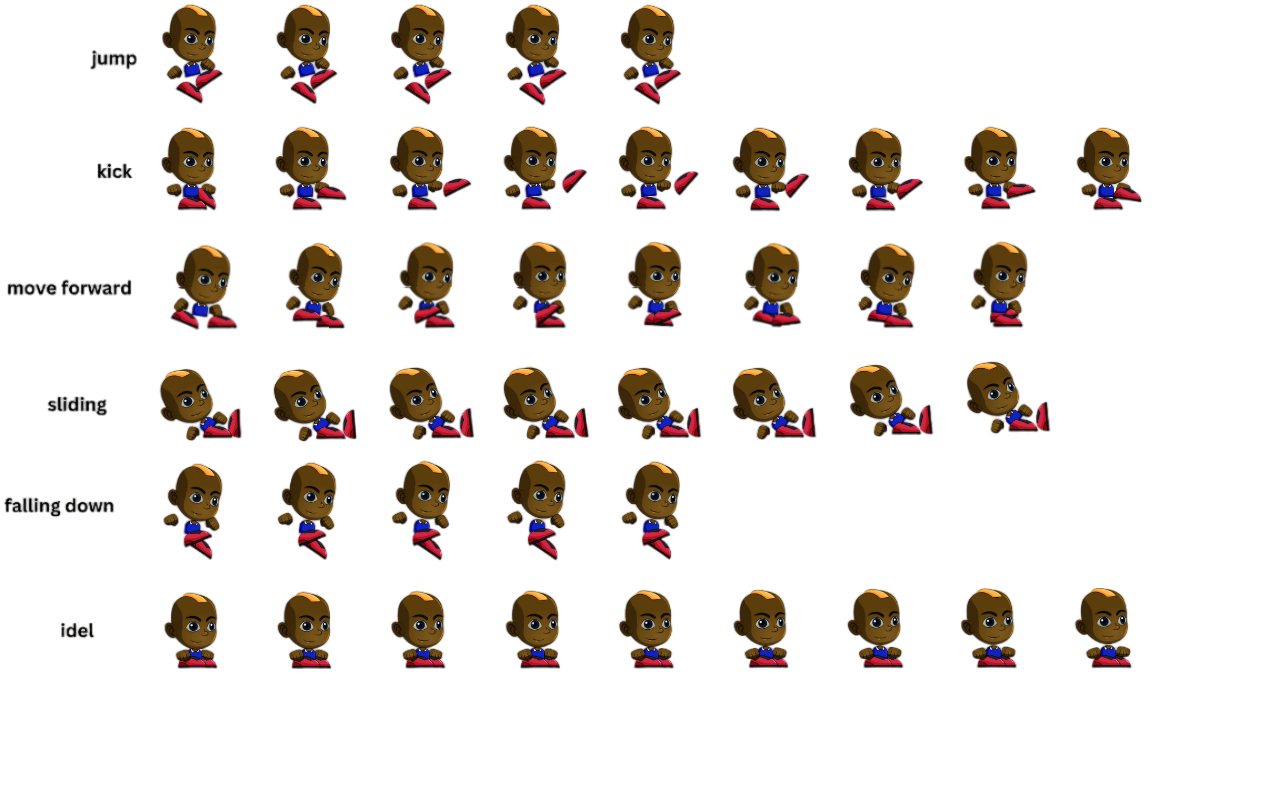
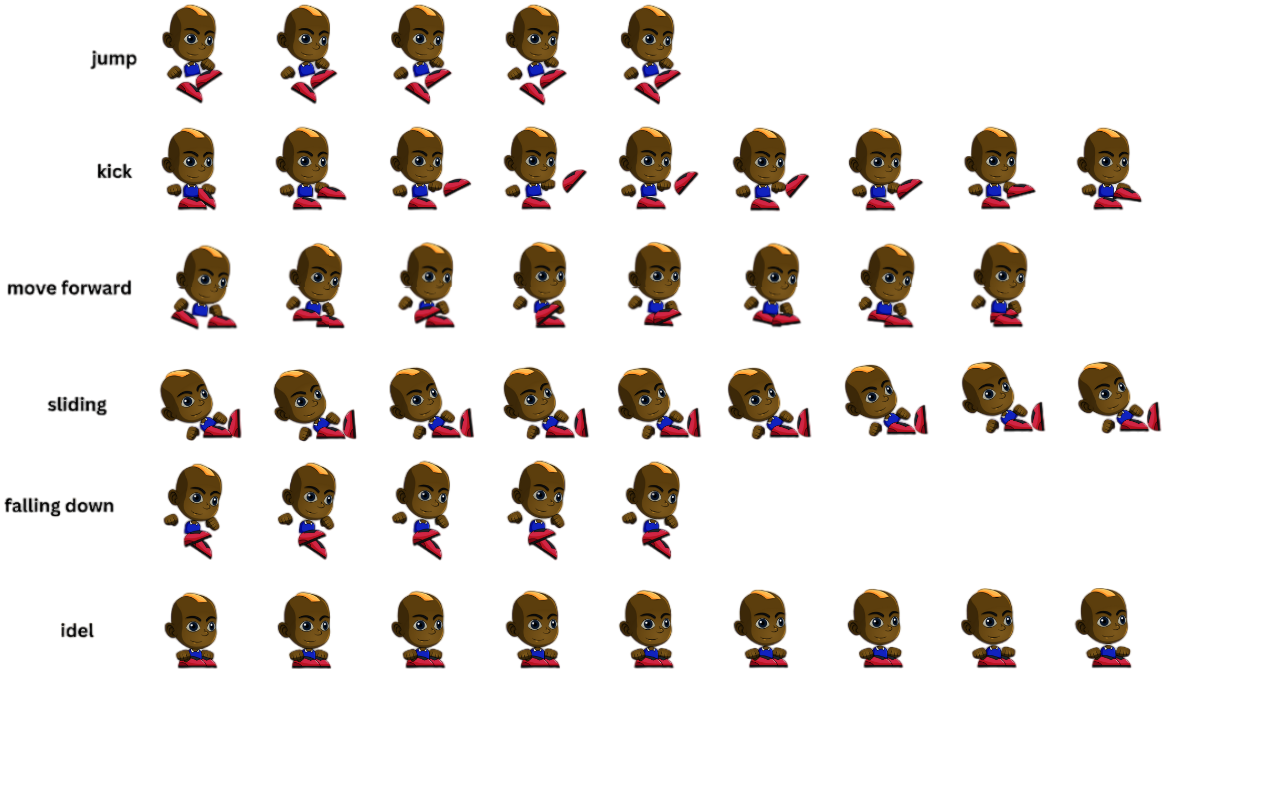
after two side of the players work

Changed region(s): [[0.5625, 0.4359, 0.9062, 0.5604]]

diff --git a/src/Player.cpp b/src/Player.cpp
@@ -3,8 +3,9 @@
 #include "Player.h"
 #include <iostream>
 
-Player::Player(sf::Texture& texture, bool right):m_jump(0), m_posX(0), m_posY(0), m_move(0), m_movePlayer(false)
+Player::Player(sf::Texture& texture, bool right, Keyboard keys):m_numOfJump(0), m_posX(0), m_posY(0), m_move(-2), m_movePlayer(false),m_keys(keys), m_playerSide(right)
 {
+
 
 	m_sprite.setTexture(texture);
 
@@ -14,7 +15,10 @@ Player::Player(sf::Texture& texture, bool right):m_jump(0), m_posX(0), m_posY(0)
 	// Set the texture rectangle to the character's position and size on the sprite sheet
 	m_sprite.setTextureRect(characterRect);
 	m_sprite.setPosition(272, 750);
-	m_sprite.scale(-1, 1);
+	if (m_playerSide)
+	{
+		m_sprite.scale(-1, 1);
+	}
 
 	m_startSprite.push_back(sf::Vector2f(145, 125));
 	m_startSprite.push_back(sf::Vector2f(145, 240));
@@ -30,99 +34,111 @@ void Player::draw(sf::RenderWindow& window) {
 	window.draw(m_sprite);
 }
 
-//move the player 
+//function that find where to move and  call to another function 
 void Player::move(int keyPressed) {
 
 	//if user preesed keyboard keep it in member
-	if (keyPressed != 0)
+	if (keyPressedValid(keyPressed))
 	{
 		m_move = keyPressed;
 		m_moveClock.restart();
 	}
-
-	switch (m_move)
-	{
-	case SPACE://kick
-		movePlayer(m_startSprite[0],600);
-		break;
-
-	case LEFT://move left
+	
+	if( m_keys.SPACE == m_move)//kick
+		movePlayer(m_startSprite[0],7);
+	else if (m_keys.LEFT == m_move) {//move left
 		m_posX -= 5;
-		movePlayer(m_startSprite[1], 720);
-		break;
-
-	case RIGHT://move right
+		movePlayer(m_startSprite[1], 6);
+	}
+	else if (m_keys.RIGHT == m_move) {//move right
 		m_posX += 5;
-		movePlayer(m_startSprite[1], 720);
-		break;
-
-	case JUMP://jump
+		movePlayer(m_startSprite[1], 6);
+	}
+	else if (m_keys.JUMP == m_move) {//jump
 		if (m_posY > -105)
 		{
 			m_posY -= 20;
 		}
-		movePlayer(m_startSprite[2], 400);
+		movePlayer(m_startSprite[2], 3);
 
 		//after jumping need to go down
 		if (!m_movePlayer)
 		{
-			m_move = DOWN;
+			m_move = m_keys.DOWN;
 		}
-		break;
-
-	case DOWN://down
+	}
+	else if (m_keys.DOWN == m_move) {//down
 		m_posY += 20;
-		movePlayer(m_startSprite[3], 400);
-		break;
-
-	case SLIDE://slide
-		m_posX += 5;
-		movePlayer(m_startSprite[4], 720);
-		break;
-
-	default://return to regular position 
+		movePlayer(m_startSprite[3], 3);
+	}
+	else if (m_keys.SLIDE == m_move) {//slide
+		if (m_playerSide)
+			m_posX -= 5;
+		else m_posX += 5;
+		
+		movePlayer(m_startSprite[4], 7);
+	}
+	else {//return to regular position 
 		m_posY = 0;
 		sf::IntRect characterRect(145, 585, 95, 100); // Assuming each character is 32x32 pixels
 		// Set the texture rectangle to the character's position and size on the sprite sheet
 		m_sprite.setTextureRect(characterRect);
 		m_sprite.setPosition(float(272 + m_posX), float(750));
-		
 	}
 
 }
 
-void Player::movePlayer(sf::Vector2f startPos, int jump) {
+//function that move the player
+void Player::movePlayer(sf::Vector2f startPos, int maxSprite) {
+
+	float maxTime = 200;
 	float sec = float(m_moveClock.getElapsedTime().asMilliseconds());
-	if (200 > sec)
+	if (maxTime > sec)
 	{
-		if (m_jump > jump)
+		if (m_numOfJump > 115* maxSprite)
 		{
-			m_jump = 0;
-			m_move = 0;
+			m_numOfJump = 0;
+			m_move = -2;
 			m_movePlayer = false;
 			return;
 		}
 		else
 		{
-			m_jump += 115;
+			m_numOfJump += 115;
 		}
-		sf::IntRect characterRect(int(startPos.x + m_jump), int(startPos.y), 95, 100); // Assuming each character is 32x32 pixels
-
-		// Set the texture rectangle to the character's position and size on the sprite sheet
-		m_sprite.setTextureRect(characterRect);
-		m_sprite.setPosition(float(272 + m_posX), float(750 + m_posY));
 		m_movePlayer = true;
 	}
 	else
 	{
-		m_jump = 0;
-		m_move = 0;
+		m_numOfJump = 0;
+		m_move = -2;
 		m_movePlayer = false;
-		sf::IntRect characterRect(int(startPos.x), int(startPos.y), 95, 100); // Assuming each character is 32x32 pixels
-
-		// Set the texture rectangle to the character's position and size on the sprite sheet
-		m_sprite.setTextureRect(characterRect);
-		m_sprite.setPosition(float(272 + m_posX), float(750 + m_posY));
 		m_moveClock.restart();
-	}
+	}		
+	sf::IntRect characterRect(int(startPos.x + m_numOfJump), int(startPos.y), 95, 100); // Assuming each character is 32x32 pixels
+
+	// Set the texture rectangle to the character's position and size on the sprite sheet
+	m_sprite.setTextureRect(characterRect);
+	m_sprite.setPosition(float(272 + m_posX), float(750 + m_posY));
 }
+
+//function that check if user pressed on valid key
+bool Player::keyPressedValid(int keyPressed) {
+
+
+	if (m_keys.SPACE == keyPressed)//kick
+		return true;
+	else if (m_keys.LEFT == keyPressed)//move left
+		return true;
+	else if (m_keys.RIGHT == keyPressed)//move right
+		return true;
+	else if (m_keys.JUMP == keyPressed)//jump
+		return true;
+	else if (m_keys.DOWN == keyPressed)//down
+		return true;
+	else if (m_keys.SLIDE == keyPressed)//slide
+		return true;
+
+	return false;
+}
+

diff --git a/src/Board.cpp b/src/Board.cpp
@@ -6,6 +6,7 @@
 #include "FileException.h"
 #include "Player.h"
 #include "StaticObject.h"
+#include "Keyboard.h"
 
 
 // Constructor for the Board class
@@ -14,12 +15,13 @@ Board::Board(std::vector<sf::Texture>& texturs):m_boardOpen(true)
     m_backGroundStadium.setTexture(texturs[0]);
 
 	//StaticObject* staticObject = std::make_unique<ScoreBoard>(60);
-	m_staticObject.push_back(std::make_unique<ScoreBoard>(60));
+	m_staticObject.push_back(std::make_unique<ScoreBoard>(90));
 
     m_rightGoal.setRightGoal();
-
-	m_movingObject.push_back(std::make_unique<Player>(texturs[1]));
-
+	Keyboard player1(57, 71,72,73,-1,74);
+	Keyboard player2(25,0 ,3 ,22 , -1, 18);
+	m_movingObject.push_back(std::make_unique<Player>(texturs[1],true, player1));
+	m_movingObject.push_back(std::make_unique<Player>(texturs[1], false, player2));
 
 }
 

diff --git a/include/Player.h b/include/Player.h
@@ -3,17 +3,13 @@
 #include "MovingObject.h"
 #include <SFML/Graphics.hpp>
 #include <vector>
-
-enum UserPressed
-{
-	SPACE = 57, LEFT = 71, RIGHT = 72, JUMP = 73, DOWN = -1, SLIDE = 74
-};
+#include "Keyboard.h"
 
 
 class Player: public MovingObject
 {
 public:
-	Player(sf::Texture& texture, bool right);
+	Player(sf::Texture& texture, bool right, Keyboard keys);
 
 	virtual void draw(sf::RenderWindow& window) override;
 
@@ -22,17 +18,21 @@ public:
 	~Player() = default;
 private:
 
-	int m_jump;
+	int m_numOfJump;
 	int m_posX;
 	int m_posY;
 	int m_move;
 
 	bool m_movePlayer;
+	bool m_playerSide;
 
 	sf::Sprite m_sprite;
 	sf::Clock m_moveClock;
 
 	std::vector<sf::Vector2f> m_startSprite;
 
+	Keyboard m_keys;
+
 	void movePlayer(sf::Vector2f startPos, int jump);
+	bool keyPressedValid(int keyPressed);
 };

diff --git a/src/Window.cpp b/src/Window.cpp
@@ -40,7 +40,7 @@ void Window::eventFunc() {
 	}
 	m_mousePressed.x = -1;
 	m_mousePressed.y = -1;
-	m_keyPressed = 0;
+	m_keyPressed = -2;
 }
 //------------------------------------------------------------------//
 // checkMouseReleased

diff --git a/include/Keyboard.h b/include/Keyboard.h
@@ -1,0 +1,14 @@
+
+
+#pragma once
+
+struct Keyboard
+{
+	int SPACE = 0;
+	int LEFT = 0;
+	int RIGHT = 0;
+	int JUMP = 0;
+	int DOWN = 0;
+	int SLIDE = 0;
+};
+
